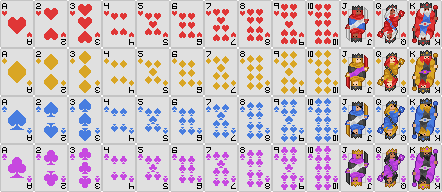
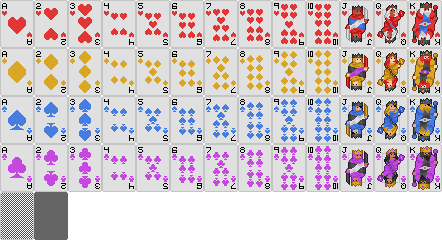
Support face-down cards
I think I've forgotten to credit the creator of the card sprites I'm
using. They are Lazyspace, and the asset's itch.io page is:

https://lazyspace.itch.io/pixel-playing-cards

diff --git a/src/state.rs b/src/state.rs
@@ -321,14 +321,14 @@ impl State {
                 (0..13u8).map(move |rank| {
                     let position = cgmath::Vector3::new(
                         (1.2 * card::WIDTH as f32 * (rank as f32 - 6.0)) as i32,
-                        (1.2 * card::HEIGHT as f32 * (suit.doppelkopf_suit_strength() as f32 - 2.0))
+                        (1.2 * card::HEIGHT as f32 * (suit.doppelkopf_suit_strength() as f32 - 2.5))
                             as i32,
                         0,
                     );
 
                     Card {
                         position,
-                        facedown: false,
+                        facedown: (rank + suit.doppelkopf_suit_strength()) % 3 == 0,
                         rank,
                         suit,
                     }

diff --git a/src/card.rs b/src/card.rs
@@ -54,6 +54,7 @@ impl Card {
             .into(),
             rank: self.rank as u32,
             suit: self.suit.texture_index() as u32,
+            facedown: self.facedown as u32,
         })
     }
 }
@@ -64,6 +65,7 @@ pub struct Instance {
     model: [[f32; 4]; 4],
     rank: u32,
     suit: u32,
+    facedown: u32,
 }
 
 impl Instance {
@@ -79,6 +81,7 @@ impl Instance {
                 VertexFormat::Float32x4,
                 VertexFormat::Float32x4,
                 VertexFormat::Float32x4,
+                VertexFormat::Uint32,
                 VertexFormat::Uint32,
                 VertexFormat::Uint32,
             ),
